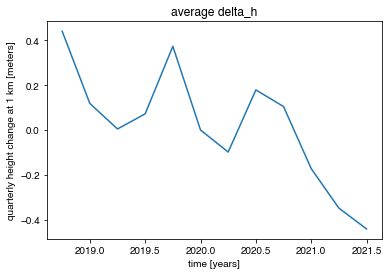
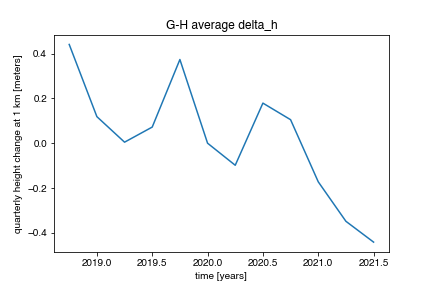
docs: update average plot recipe for all regions (#13)

diff --git a/IS2view/IS2view.py b/IS2view/IS2view.py
@@ -616,7 +616,7 @@ class leaflet:
             Keyword arguments for GeoJSON
         """
         # set default keyword arguments
-        kwargs.setdefault('color', 'blue')
+        kwargs.setdefault('style', dict(color='blue'))
         # convert geodataframe to coordinate reference system
         # and to GeoJSON
         geodata = gdf.to_crs('epsg:4326').__geo_interface__
@@ -1288,7 +1288,7 @@ class TimeSeries(HasTraits):
         figsize=(6, 4),
         **kwargs
         ):
-        """Creates a time series of an extracted geometry
+        """Plot a time series for an extracted geometry
 
         Parameters
         ----------
@@ -1346,6 +1346,58 @@ class TimeSeries(HasTraits):
         # return the class object
         return self
 
+    # extract a time series plot for a region
+    def extract(self, feature,
+        variable='delta_h',
+        crs='epsg:4326',
+        epoch=2018.0,
+        ):
+        """Extract a time series for a geometry
+
+        Parameters
+        ----------
+        feature : obj
+            GeoJSON feature to extract
+        variable : str, default 'delta_h'
+            xarray variable to extract
+        crs : str, default 'epsg:4326'
+            coordinate reference system of geometry
+        epoch : float, default 2018.0
+            Reference epoch for delta times
+        """
+        # set geometry
+        self.geometry = feature.get('geometry') or {}
+        # set properties with all keys lowercase
+        properties = feature.get('properties') or {}
+        self.properties = {k.lower(): v for k, v in properties.items()}
+        # get coordinate reference system of geometry
+        self.crs = crs
+        # attempt to get the coordinate reference system of the dataset
+        self.get_crs()
+        # reduce to variable
+        self._variable = copy.copy(variable)
+        if (self._ds[self._variable].ndim == 3) and ('time' in self._ds[self._variable].dims):
+            self._ds_selected = self._ds[self._variable]
+        else:
+            return
+        # convert time to units
+        self._time = epoch + (self._ds.time)/365.25
+        # extract units
+        self._longname = self._ds[self._variable].attrs['long_name'].replace('  ', ' ')
+        self._units = self._ds[self._variable].attrs['units'][0]
+        # create plot for a given geometry type
+        geometry_type = self.geometry.get('type')
+        if (geometry_type.lower() == 'point'):
+            self.point(None)
+        elif (geometry_type.lower() == 'linestring'):
+            self.transect(None)
+        elif geometry_type.lower() in ('polygon','multipolygon'):
+            self.average(None)
+        else:
+            raise ValueError(f'Invalid geometry type {geometry_type}')
+        # return the class object
+        return self
+
     def get_crs(self):
         """Attempt to get the coordinate reference system of the dataset
         """
@@ -1370,10 +1422,14 @@ class TimeSeries(HasTraits):
         raise Exception('Unknown coordinate reference system')
 
     def point(self, ax, **kwargs):
-        """Create time series plot for a geolocation
+        """Extracts and plots a time series for a geolocation
 
         Parameters
         ----------
+        ax : obj or NoneType
+            Figure axis on which to plot
+
+            Will only extract time series if ``None``
         legend : bool, default False
             Add legend
         """
@@ -1388,6 +1444,9 @@ class TimeSeries(HasTraits):
         # only create plot if valid
         if np.all(np.isnan(self._data)):
             return
+        # if only returning data
+        if ax is None:
+            return self
         # drop unpassable keyword arguments
         kwargs.pop('cmap') if ('cmap' in kwargs.keys()) else None
         # create legend with geometry name or geolocation
@@ -1415,10 +1474,14 @@ class TimeSeries(HasTraits):
         return self
 
     def transect(self, ax, **kwargs):
-        """Create time series plot for a transect
+        """Extracts and plots a time series for a transect
 
         Parameters
         ----------
+        ax : obj or NoneType
+            Figure axis on which to plot
+
+            Will only extract time series if ``None``
         cmap : str or NoneType, default None
             matplotlib colormap
         legend : bool, default False
@@ -1453,6 +1516,22 @@ class TimeSeries(HasTraits):
         # sort output data by distance
         indices = np.argsort(distance)
         self._dist = distance[indices]
+        # output reduced time series for each point
+        self._data = np.zeros((np.count_nonzero(mask), len(self._ds.time)))
+        labels = [None]*len(self._ds.time)
+        # for each step in the time series
+        for i, t in enumerate(self._ds.time):
+            clipped = mask*self._ds_selected.sel(time=t)
+            reduced = clipped.data[ii, jj]
+            # sort data based on distance to first point
+            self._data[:, i] = reduced[indices]
+            labels[i] = '{0:0.2f}'.format(self._time[i].data)
+        # only create plot if valid
+        if np.all(np.isnan(self._data)):
+            return
+        # if only returning data
+        if ax is None:
+            return self
         # get colormap for each time point
         if ('cmap' in kwargs.keys()):
             cmap = copy.copy(plt.cm.get_cmap(kwargs['cmap']))
@@ -1467,21 +1546,16 @@ class TimeSeries(HasTraits):
             kwargs.pop('legend')
         else:
             add_legend = False
-        # output reduced time series for each point
-        self._data = np.zeros((np.count_nonzero(mask), len(self._ds.time)))
+        # output time series plot
         self._line = [None]*len(self._ds.time)
         # for each step in the time series
         for i, t in enumerate(self._ds.time):
-            clipped = mask*self._ds_selected.sel(time=t)
-            reduced = clipped.data[ii, jj]
-            # sort data based on distance to first point
-            self._data[:, i] = reduced[indices]
             # select color
             if (plot_colors is not None):
                 kwargs['color'] = next(plot_colors)
             # create transect plot
             self._line[i], = ax.plot(self._dist, self._data[:,i],
-                label='{0:0.2f}'.format(self._time[i].data), **kwargs)
+                label=labels[i], **kwargs)
         # set labels and title
         ax.set_xlabel('{0} [{1}]'.format('Distance', 'meters'))
         ax.set_ylabel('{0} [{1}]'.format(self._longname, self._units))
@@ -1498,10 +1572,14 @@ class TimeSeries(HasTraits):
         return self
 
     def average(self, ax, **kwargs):
-        """Create time series plot for a regional average
+        """Extracts and plots a time series for a regional average
 
         Parameters
         ----------
+        ax : obj or NoneType
+            Figure axis on which to plot
+
+            Will only extract time series if ``None``
         legend : bool, default False
             Add legend
         """
@@ -1547,6 +1625,12 @@ class TimeSeries(HasTraits):
                 self._data[i] = np.sum(area*clipped)/np.sum(area)
             # calculate total area for region
             self._area[i] = np.sum(area)
+        # only create plot if valid
+        if np.all(np.isnan(self._data)):
+            return
+        # if only returning data
+        if ax is None:
+            return self
         # drop unpassable keyword arguments
         kwargs.pop('cmap') if ('cmap' in kwargs.keys()) else None
         # create legend with geometry name
@@ -1686,6 +1770,57 @@ class Transect(HasTraits):
         # return the class object
         return self
 
+    # extract a time series for a region
+    def extract(self, feature,
+        variable='h',
+        lag=0,
+        crs='epsg:4326',
+        epoch=2018.0,
+        ):
+        """Extract a transect for a geometry
+
+        Parameters
+        ----------
+        feature : obj
+            GeoJSON feature to extract
+        variable : str, default 'h'
+            xarray variable to extract
+        lag : int, default 0
+            Time lag to extract if 3-dimensional
+        crs : str, default 'epsg:4326'
+            coordinate reference system of geometry
+        epoch : float, default 2018.0
+            Reference epoch for delta times
+        """
+        # set geometry
+        self.geometry = feature.get('geometry') or {}
+        # set properties with all keys lowercase
+        properties = feature.get('properties') or {}
+        self.properties = {k.lower(): v for k, v in properties.items()}
+        # get coordinate reference system of geometry
+        self.crs = crs
+        # attempt to get the coordinate reference system of the dataset
+        self.get_crs()
+        # reduce to variable
+        self._variable = copy.copy(variable)
+        if (self._ds[self._variable].ndim == 3) and ('time' in self._ds[self._variable].dims):
+            self._ds_selected = self._ds[self._variable].sel(time=self._ds.time[lag])
+        elif (self._ds[self._variable].ndim == 3) and ('band' in self._ds[self._variable].dims):
+            self._ds_selected = self._ds[self._variable].sel(band=1)
+        else:
+            self._ds_selected = self._ds[self._variable]
+        # extract units
+        self._longname = self._ds[self._variable].attrs['long_name'].replace('  ', ' ')
+        self._units = self._ds[self._variable].attrs['units'][0]
+        # create time series for a given geometry type
+        geometry_type = self.geometry.get('type')
+        if (geometry_type.lower() == 'linestring'):
+            self.transect(None)
+        else:
+            raise ValueError(f'Invalid geometry type {geometry_type}')
+        # return the class object
+        return self
+
     def get_crs(self):
         """Attempt to get the coordinate reference system of the dataset
         """
@@ -1710,10 +1845,14 @@ class Transect(HasTraits):
         raise Exception('Unknown coordinate reference system')
 
     def transect(self, ax, **kwargs):
-        """Create plot for a transect
+        """Extracts and plots a transect
 
         Parameters
         ----------
+        ax : obj or NoneType
+            Figure axis on which to plot
+
+            Will only extract transect if ``None``
         legend : bool, default False
             Add legend
         """
@@ -1735,15 +1874,21 @@ class Transect(HasTraits):
         # sort output data by distance
         indices = np.argsort(distance)
         self._dist = distance[indices]
+        # sort data based on distance to first point
+        reduced = clipped.data[ii, jj]
+        self._data = reduced[indices]
+        # only create plot if valid
+        if np.all(np.isnan(self._data)):
+            return
+        # if only returning data
+        if ax is None:
+            return self
         # create legend with geometry name
         if ('legend' in kwargs.keys()) and self.properties.get('name'):
             add_legend = True
         else:
             add_legend = False
         kwargs.pop('legend') if ('legend' in kwargs.keys()) else None
-        # sort data based on distance to first point
-        reduced = clipped.data[ii, jj]
-        self._data = reduced[indices]
         # create transect plot
         self._line, = ax.plot(self._dist, self._data, **kwargs)
         # set labels and title

diff --git a/doc/source/user_guide/Recipes.rst b/doc/source/user_guide/Recipes.rst
@@ -15,8 +15,6 @@ Add Contextual Layers
 
    m.add(IS2view.image_service_layer('ArcticDEM'))
 
-
-
 - `Reference Elevation Model of Antarctica <https://www.pgc.umn.edu/data/rema>`_ (Antarctic Polar Stereographic, `EPSG:3031 <https://epsg.io/3031>`_)
 
    Provided by `Esri Polar/AntarcticDEM ImageServer <https://elevation2.arcgis.com/arcgis/rest/services/Polar/AntarcticDEM/ImageServer>`_
@@ -35,6 +33,7 @@ Plot a Transect
    gdf = geopandas.read_file('/vsizip/shapefiles.zip/glacier0001.shp')
    # add geodataframe
    m.add_geodataframe(gdf)
+   # iterate over features
    for feature in m.geometries['features']:
       ds.timeseries.plot(feature, cmap='rainbow', legend=True,
          variable=IS2widgets.variable.value,
@@ -66,6 +65,7 @@ Plot Multiple Time Series
    # plot colors for each geometry
    n_features = len(m.geometries['features'])
    plot_colors = iter(plt.cm.rainbow_r(np.linspace(0,1,n_features)))
+   # iterate over features
    for geo in m.geometries['features']:
       color = next(plot_colors)
       ds.timeseries.plot(geo, ax=ax,
@@ -89,29 +89,45 @@ Calculate Area Averages
    import geopandas
    import numpy as np
    import matplotlib.pyplot as plt
+   import matplotlib.colors as colors
+   # data release and variable
+   release = IS2widgets.release.value
+   variable = IS2widgets.variable.value
    # read shapefile with drainage outlines
    gdf = geopandas.read_file('IceBoundaries_Antarctica_v02.shp')
-   # add geodataframe of drainages of the Amundsen Sea Embayment
-   m.add_geodataframe(gdf[(gdf['Subregions'] == 'G-H') & (gdf['TYPE'] == 'GR')])
-   # allocate for combined area and volume
-   area = np.zeros_like(ds.time, dtype=np.float64)
-   volume = np.zeros_like(ds.time, dtype=np.float64)
-   for geo in m.geometries['features']:
-      ds.timeseries.plot(geo, legend=True,
-         variable=IS2widgets.variable.value,
-      )
-      # add to total area and volume
-      area += ds.timeseries._area
-      volume += ds.timeseries._area*ds.timeseries._data
-   # create output figure
-   fig, ax = plt.subplots()
-   fig.patch.set_facecolor('white')
-   ax.plot(ds.timeseries._time, volume/area)
-   ax.set_xlabel('{0} [{1}]'.format('time', 'years'))
-   ax.set_ylabel('{0} [{1}]'.format(ds.timeseries._longname, ds.timeseries._units))
-   ax.set_title('average {0}'.format(ds.timeseries._variable))
-   # show average plot
-   plt.show()
+   # get unique list of subregions
+   subregions = gdf[gdf['TYPE'] == 'GR']['Subregions'].unique()
+   # plot colors for each subregion
+   n_features = len(subregions)
+   plot_colors = iter(plt.cm.rainbow_r(np.linspace(0,1,n_features)))
+   # iterate over subregions
+   for subregion in sorted(subregions):
+      # add geodataframe of drainages within subregion
+      color = colors.to_hex(next(plot_colors))
+      data = gdf[(gdf['TYPE'] == 'GR') & (gdf['Subregions'] == subregion)]
+      m.add_geodataframe(data, style=dict(color=color))
+      # allocate for combined area and volume
+      area = np.zeros_like(ds.time, dtype=np.float64)
+      volume = np.zeros_like(ds.time, dtype=np.float64)
+      # iterate over features
+      for geo in m.geometries['features']:
+         ds.timeseries.extract(geo, variable=variable)
+         # add to total area and volume
+         area += ds.timeseries._area
+         volume += ds.timeseries._area*ds.timeseries._data
+      # create output figure
+      fig, ax = plt.subplots()
+      fig.patch.set_facecolor('white')
+      ax.plot(ds.timeseries._time, volume/area)
+      ax.set_xlabel('{0} [{1}]'.format('time', 'years'))
+      ax.set_ylabel('{0} [{1}]'.format(ds.timeseries._longname, ds.timeseries._units))
+      ax.set_title('{0} average {1}'.format(subregion,variable))
+      # set axis ticks to not use constant offset
+      ax.xaxis.get_major_formatter().set_useOffset(False)
+      # save average plot
+      plt.savefig('ATL15_{0}_{1}_{2}.pdf'.format(release,subregion,variable))
+      # drop features for subregion
+      m.geometries['features'] = []
 
 .. figure:: ../_assets/average.png
    :width: 400
